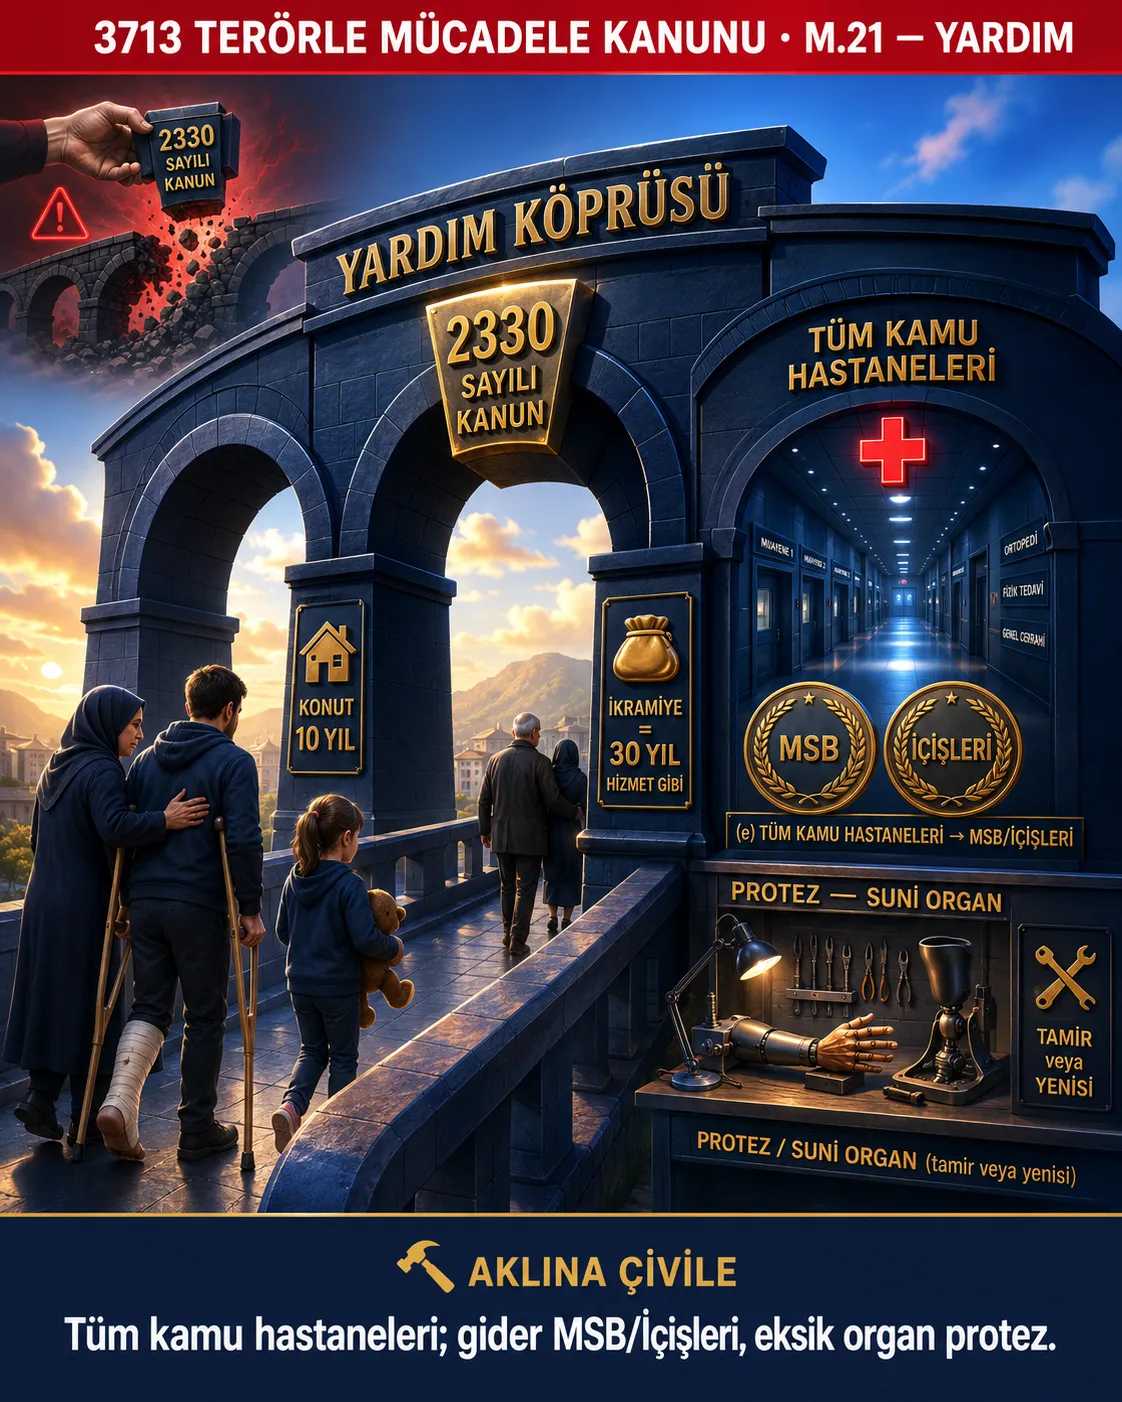
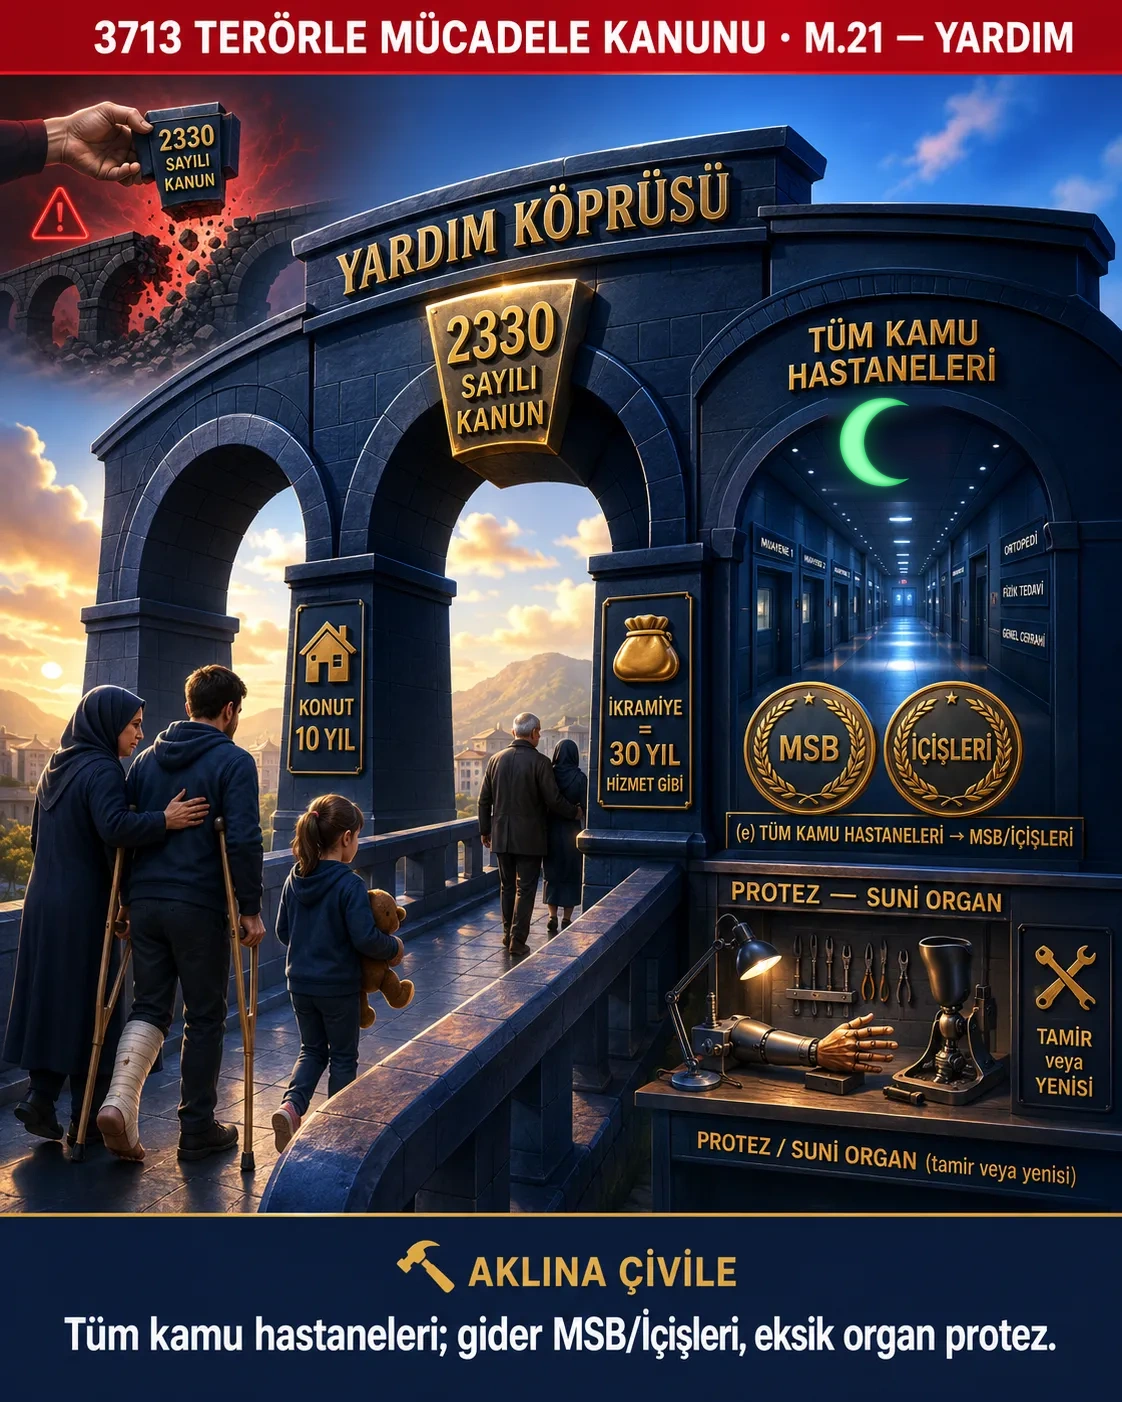
Er Meydani: hizli eslesmede soru suresi 15 sn -> 45 sn
Kesif: hizli eslesme maca 'sure' parametresi gondermiyordu, mac ekrani da
SORU_SURE_MS (15000) varsayilanina dusuyordu. Sabit ayni zamanda DERECELI (lig)
maclarin da varsayilani oldugu icin sabite dokunulmadi; sadece hizli eslesmeye
sure: 45 acikca gecildi (izinli degerler [20,30,45,60]).

- Oda modu etkilenmedi (kurucunun sectigi sure kullaniliyor)
- Dereceli/lig hala 15 sn (baskanin karari bekleniyor)
- Puanlama bozulmaz: hiz bonusu kalan sureye orantili, mac tavan puani sureden bagimsiz
- Terorle m.21 kartinin duzeltilmis gorseli (hac -> yesil hilal) depoya eklendi
- PROJE_DURUM.md guncellendi

Changed region(s): [[0.7175, 0.276, 0.8422, 0.368]]

diff --git a/src/app/(tabs)/er-meydani.tsx b/src/app/(tabs)/er-meydani.tsx
@@ -118,7 +118,9 @@ export default function ErMeydaniScreen() {
     // Seçim yoksa kullanıcının TÜM kapsamı (müşterek + branşı); tüm 135 kanun DEĞİL.
     const efektif = hizliKanunlar.length ? hizliKanunlar : [...hizliScope.musterek, ...hizliScope.brans].map((k) => k.id);
     setHizliAcik(false);
-    macaGit({ seed: seedUret(), mod: 'hizli', kanunlar: efektif });
+    // Hızlı eşleşmede soru başına süre 45 sn (başkan kararı, 2 Ağu). Oda modunda süre zaten
+    // kurucunun seçimi; burada varsayılan 15 sn kısa geliyordu.
+    macaGit({ seed: seedUret(), mod: 'hizli', sure: 45, kanunlar: efektif });
   }
 
   // Dereceli maç: seviyeye yakın rakip bul (sunucu) → lig paramlarıyla maça git.

diff --git a/PROJE_DURUM.md b/PROJE_DURUM.md
@@ -931,3 +931,9 @@ Jandarma, MEBS, Havacılık, Personel, Maliye, İstihkam, İkmal, Bakım, Bando,
 - Mal Alımı İhaleleri Yön. +18 (EKAP, doküman bedelsiz, teklif geçerlilik süresi, ekonomik açıdan en avantajlı teklif, Ek Md.1 iş bitirme)
 - Tümü mevcut kitaplara YERİNDE eklendi (mevcut bloklar bozulmadı), PDF'ler yeniden basıldı, FORCE=1 ile 191 kitap sunucuya yeniden yüklendi.
 - TUZAK: brans-kitap-yukle.mjs güncellenen dosyayı "zaten var" diye ATLAR → içerik değişince FORCE=1 ŞART.
+
+## 2 Ağu 2026 — Er Meydanı hızlı eşleşme süresi 45 sn + Terörle m.21 kart düzeltmesi
+- **Hızlı eşleşme soru süresi 15 sn → 45 sn** (başkan talebi). KEŞİF SONUCU: hızlı eşleşme `sure` parametresi göndermiyordu, `er-meydani-mac.tsx` de `SORU_SURE_MS` (15000) varsayılanına düşüyordu. Sabiti değiştirmek DERECELİ (lig) maçları da etkileyeceği için sabite DOKUNULMADI; `(tabs)/er-meydani.tsx` `hizliBasla()` içinde `sure: 45` açıkça geçildi (izinli değerler zaten [20,30,45,60]).
+- **Dereceli/lig maçları hâlâ 15 sn** — o da değişsin mi, başkana soruldu. Oda modu zaten kurucunun seçtiği süreyi kullanıyor (etkilenmedi).
+- Puanlama etkilenmez: hız bonusu kalan süreye ORANTILI hesaplanıyor, maç tavan puanı (TEMEL+HIZ_BONUS ×soru) süreden bağımsız → sunucu doğrulaması bozulmaz.
+- Terörle Mücadele m.21 kartındaki kızıl HAÇ → yeşil (zümrüt) HİLAL olarak düzeltilip sunucuya yüklenmişti; görsel dosyası bu commit'le depoya da girdi.
